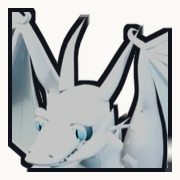
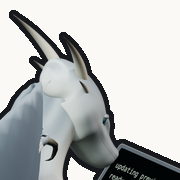
Draw J in the tab, home-screen and link-preview marks
The favicon, the apple-touch icon and the og card still showed Rime after
the chrome row moved to J (owner ruling 2026-10-12). All three now come from
one render: frame 120 of the grounded typing scene, the chrome row's own
still frame, with its camera and lights, at 2112 x 1536.

- favicon.svg: J's head at the laptop's screen corner, 64 px raster inside
  the SVG as before, with an ink edge so the pale hide holds on a light tab
  strip as well as a dark one (8.5 kB, was 10.3 kB).
- apple-touch-icon.png: the same crop at 180 px, opaque on the sheet's paper
  (#faf9f5), because iOS composites a transparent tile onto black.
- og.png: the shipped card's own "SN." pixels unchanged, J typing beside
  them, 1200 x 630 on white; og:image:alt says so.

The file names, types and declarations are unchanged, so the head's link
lines and TestBuiltFrontendServesTheDeclaredFavicon hold as they were.

- Opus5.5

diff --git a/frontend/index.html b/frontend/index.html
@@ -20,8 +20,9 @@
       browser accepts as an icon.
       TestBuiltFrontendServesTheDeclaredFavicon pins that it is served as a
       real image type rather than as a download.
-      The mark itself is Rime's head since issue 314 (owner decision,
-      2026-09-11); the LINE is unchanged, because the file keeps its name. -->
+      The mark itself is J's head at his laptop since the owner's ruling of
+      2026-10-12 (Rime's head before it, issue 314); the LINE is unchanged,
+      because the file keeps its name. -->
     <link rel="icon" href="/favicon.svg" type="image/svg+xml" />
     <!-- The home-screen mark (issue 314). iOS ignores the icon above when a
       visitor adds the site to a home screen and looks for this link instead;
@@ -46,7 +47,7 @@
     <meta property="og:image" content="https://naranjo.online/og.png" />
     <meta property="og:image:width" content="1200" />
     <meta property="og:image:height" content="630" />
-    <meta property="og:image:alt" content="SN., and Rime beside it" />
+    <meta property="og:image:alt" content="SN., and J typing at his laptop beside it" />
     <meta name="twitter:card" content="summary_large_image" />
   </head>
   <body>
